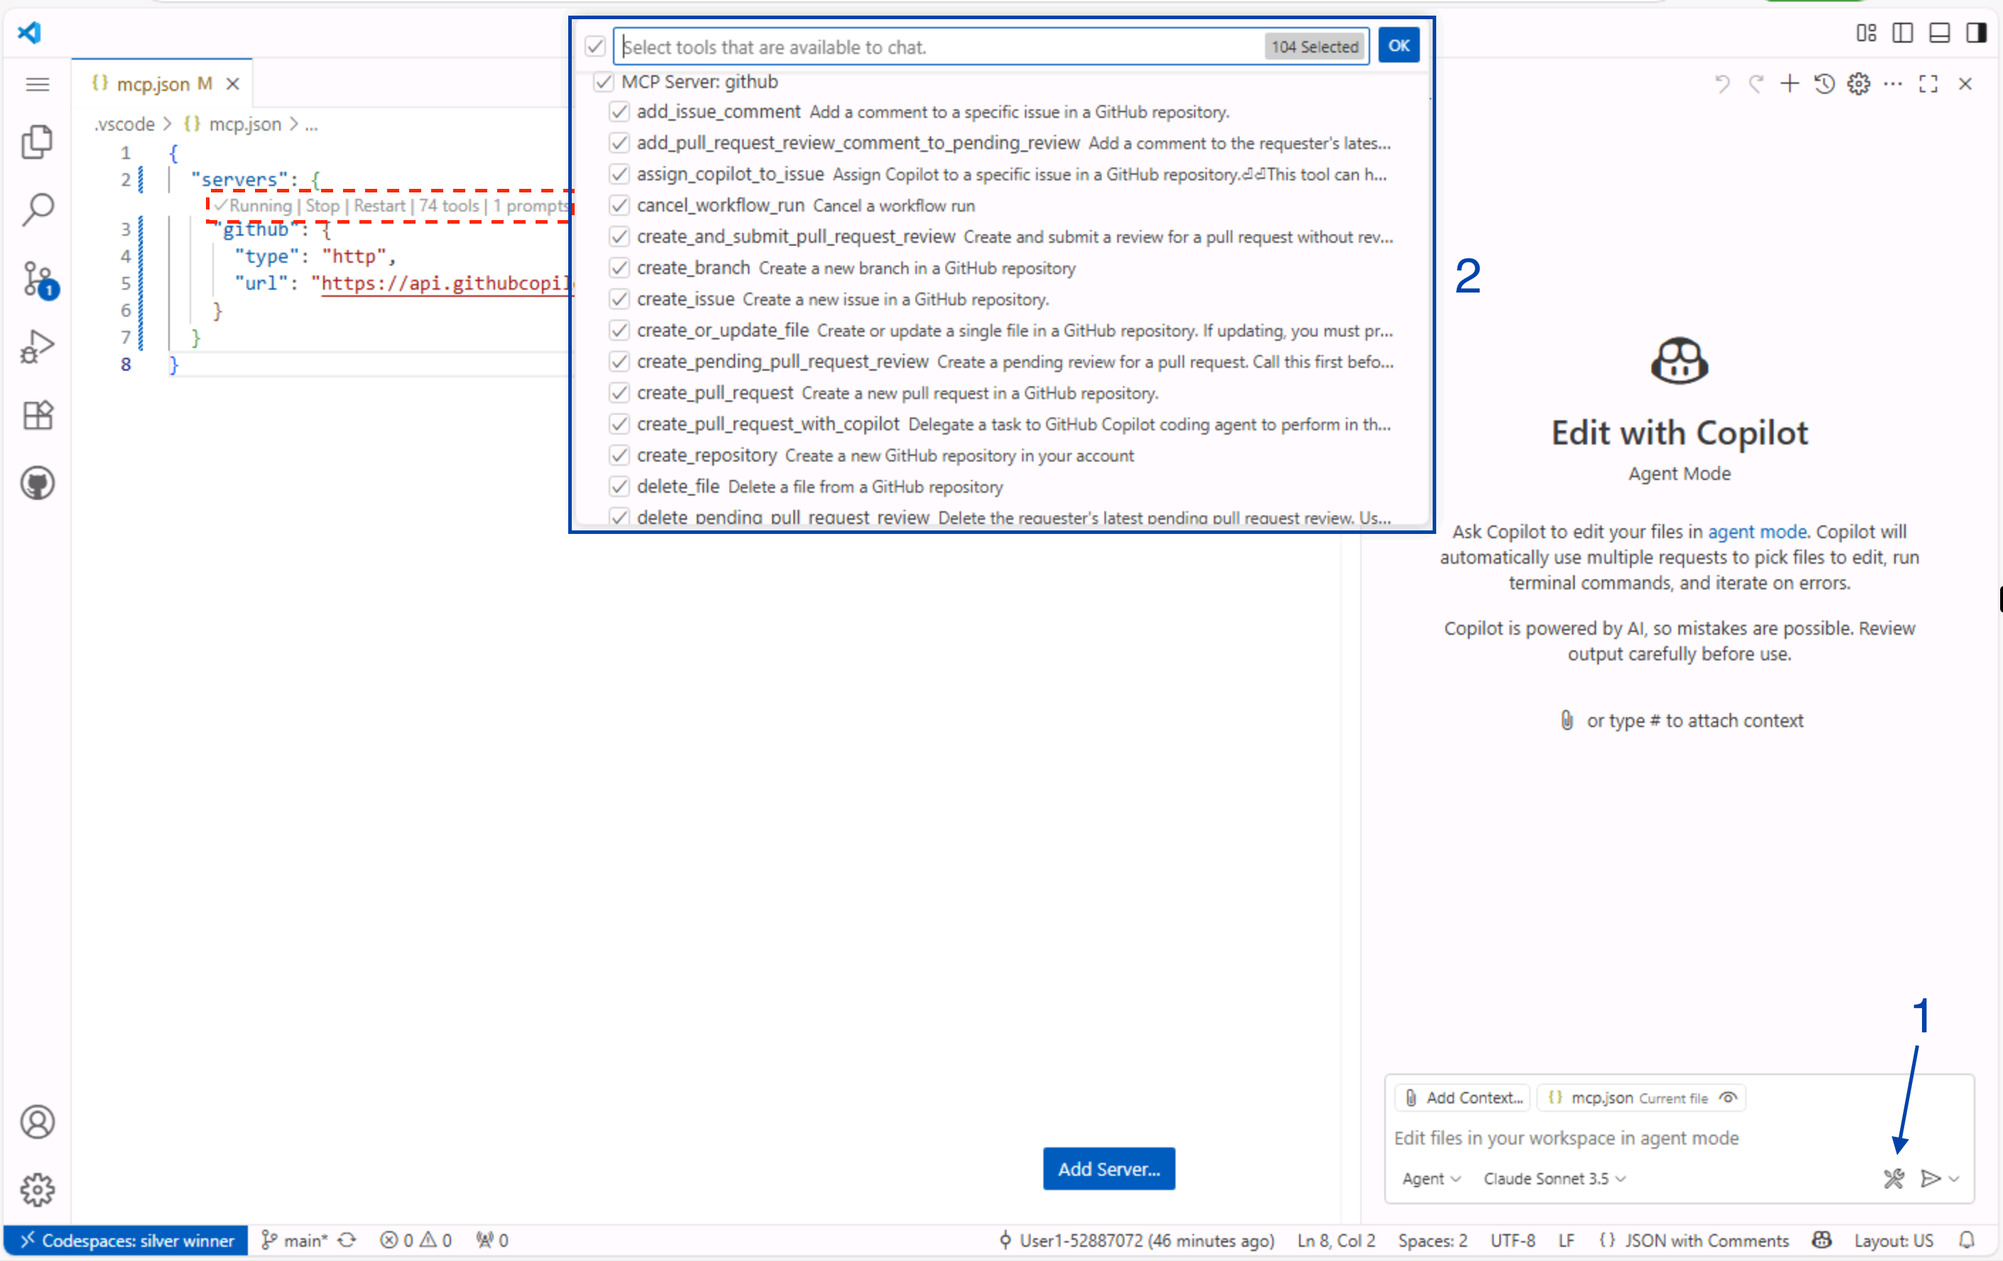
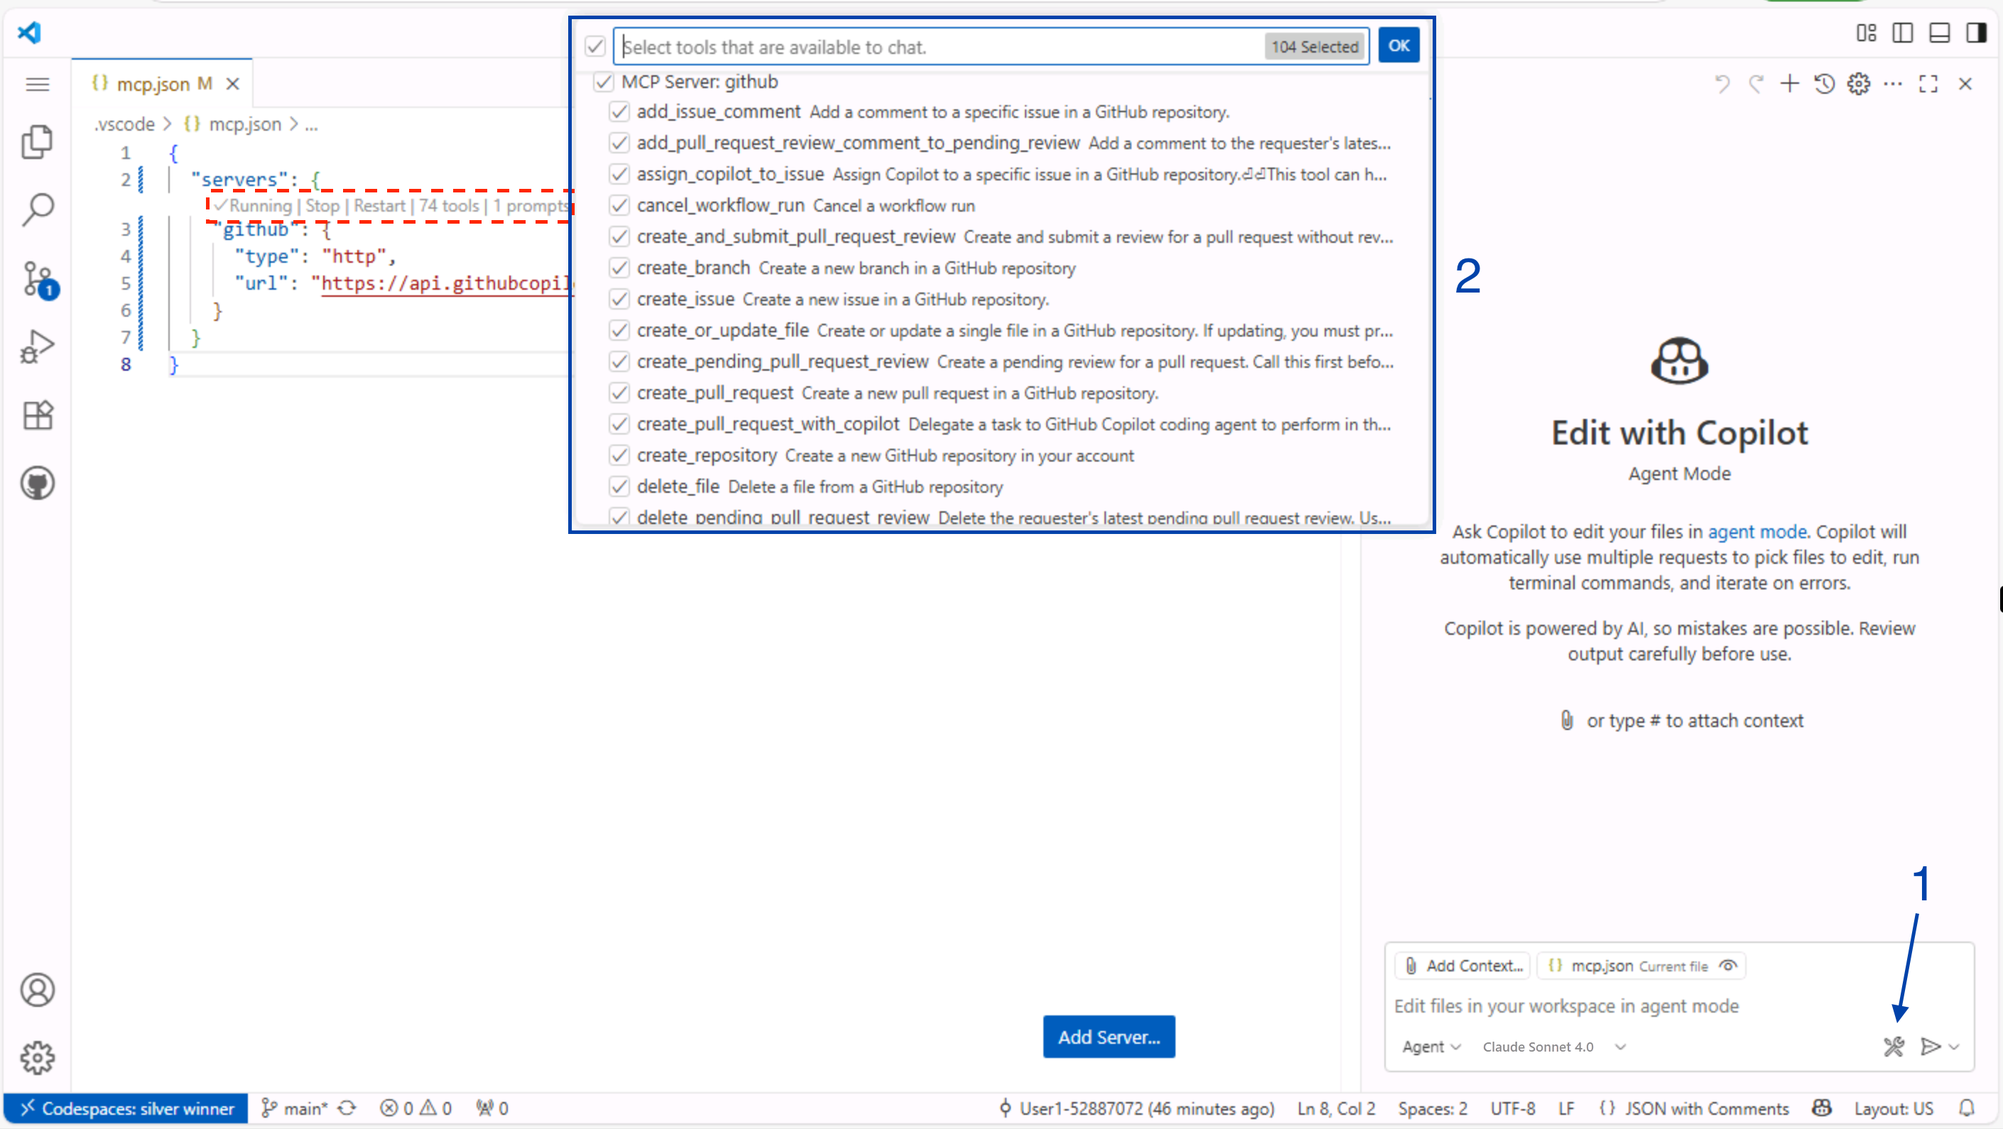
Add updates for new models

diff --git a/docs/4-copilot-agent-mode-vscode.md b/docs/4-copilot-agent-mode-vscode.md
@@ -1,7 +1,6 @@
 # Exercise 4 - Adding new functionality with Copilot Agent Mode
 
-| [← Previous lesson: Custom instructions][previous-lesson] | [Next lesson: Reviewing coding agent →][next-lesson] |
-|:--|--:|
+
 
 Even the simplest of updates to an application typically require updates to multiple files and operations to be performed like running tests. As a developer your flow typically involves tracking down all the necessary files, making the changes, running the tests, debugging, figuring out which file was missed, making another update... The list goes on and on.
 
@@ -31,7 +30,7 @@ To make running the website easier, we have provided a script that will start bo
 
 1. Return to your codespace. We'll continue working in your current branch.
 2. Open a new terminal window inside your codespace by selecting <kbd>Ctl</kbd>+<kbd>\`</kbd>.
-3. Run the following script to start the website:
+3. Run the following script to start the website:  (You may need to ask Copilot to help if permissions are denied.)
 
    ```bash
    scripts/start-app.sh
@@ -70,10 +69,10 @@ The initial implementation of the website is functional, but we want to enhance 
 
    ![Screenshot of the Copilot Chat panel showing the Agent Mode dropdown](images/copilot-agent-mode-dropdown.png)
 
-5. Select **Claude 3.5 Sonnet** from the list of available models.
+5. Select **Claude 4.0 Sonnet** from the list of available models.
 
 > [!IMPORTANT]
-> The authors of this lab are not indicating a preference towards one model or another. When building this lab, we used Claude 3.5, and as such are including that in the instructions. The hope is the code suggestions you receive will be relatively consistent to ensure a good experience. However, because LLMs are probabilistic, you may notice the suggestions received differ from what is indicated in the lab. This is perfectly normal and expected.
+> The authors of this lab are not indicating a preference towards one model or another. When building this lab, we used Claude 4.0, and as such are including that in the instructions. The hope is the code suggestions you receive will be relatively consistent to ensure a good experience. However, because LLMs are probabilistic, you may notice the suggestions received differ from what is indicated in the lab. This is perfectly normal and expected.
 
 5. Ask Copilot about the backlog of issues by sending the following prompt to Copilot, replacing **<YOUR_REPOSITORY_PATH>** with the organization/name of your repository which you noted earlier:
 
@@ -86,7 +85,7 @@ The initial implementation of the website is functional, but we want to enhance 
 > [!NOTE]
 > Because of the probabilistic nature of LLMs, Copilot may utilize a different MCP command, but should still be able to complete the task.
 
-7. Select **Continue** to run the command to list all issues.
+7. If prompted, select **Continue** to run the command to list all issues.
 8. Review the generated list of issues.
 
 Notice how Copilot has even prioritized the items for us, based on the ones that it thinks will be most useful to the user.
@@ -113,7 +112,7 @@ In addition, the tests need to run (and pass) before we merge everything into ou
 
    ![Screenshot showing an example of switching to Agent Mode](images/copilot-agent-mode-dropdown.png)
 
-4. Ensure **Claude 3.5** is still selected for the model.
+4. Ensure **Claude 4.0** is still selected for the model.
 5. Prompt Copilot to implement the functionality based on the issue we created earlier by using the following prompt, replacing **<YOUR_REPOSITORY_PATH>** with the organization/name of your repository which you noted earlier:
 
    ```plaintext
@@ -127,7 +126,7 @@ In addition, the tests need to run (and pass) before we merge everything into ou
 > [!NOTE]
 > You will notice that Copilot will perform several tasks, like exploring the project, modifying files, and running tests. It may take a few minutes depending on the complexity of the task and the codebase. During that process, you may notice **Keep** and **Undo**  buttons appear in the code editor. When Copilot is finished, you will have a **Keep** or **Undo** for all of the changes, so you do not need to select them while work is in progress.
 
-Copilot will likely take up to 5 minutes to comeplet the work above. Be patient and wait until it is finished in the Copilot window and you are presented with  a prompt to Continue.
+Copilot will likely take **up to 5 minutes to complete the work** above. Be patient and wait until it is finished in the Copilot window and you are presented with  a prompt to Continue.
 
 6. As prompted by Copilot, select **Continue** to run the tests.
 
@@ -181,7 +180,7 @@ Congratulations! In this exercise, we explored how to use GitHub Copilot Agent M
 - Copilot Agent Mode can explore your project, identify relevant files, and make coordinated changes.
 - to review changes and tests generated by Copilot Agent Mode before merging into your codebase.
 
-Now let's [return to our coding agent][next-lesson] to see how well it did with the issues we assigned to it.
+In the next-lesson you'll see how well it did with the issues we assigned to it.
 
 ### Bonus exploration exercise – Implement paging
 
@@ -201,7 +200,8 @@ As the list of games grows there will be a need for paging to be enabled. Using 
 
 ---
 
- **Click Next below**.
+ Click the following link to move onto the next exercise.
+ [Next exercise: Review GitHub Copilot coding agent's work](./5-reviewing-coding-agent.md) 
 
 [previous-lesson]: ./3-custom-instructions.md
 [next-lesson]: ./5-reviewing-coding-agent.md

diff --git a/docs/1-copilot-coding-agent.md b/docs/1-copilot-coding-agent.md
@@ -1,7 +1,5 @@
 # Exercise 1 - GitHub Copilot coding agent
 
-| [← Prerequisites][previous-lesson] | [Next lesson: MCP servers →][next-lesson] |
-|:--|--:|
 
 There are likely very few, if any, organizations who don't struggle with tech debt. This could be unresolved security issues, legacy code requiring updates, or feature requests which have languished on the backlog because we just didn't have the time to implement them. GitHub Copilot's coding agent is built to perform tasks such as updating code and adding functionality, all in an autonomous fashion. Once the agent completes its work, it generates a draft PR ready for a human developer to review. This allows offloading of tedious tasks and an acceleration of the development process, and frees developers to focus on larger picture items.
 
@@ -86,7 +84,7 @@ It looks like any other GitHub workflow file, but it has a few key points:
 
 While every developer and organization understands the importance of documentation, most projects have either outdated information or lack it altogether. This is the type of tech debt which often goes unaddressed, slowing productivity and making it more difficult to maintain the codebase or bring new developers into the team. Fortunately, Copilot shines at creating documentation, and this is a perfect issue to assign to Copilot coding agent. It'll work in the background to generate the necessary documentation. In a future exercise we'll return to review its work.
 
-1. Navigate to your repository on github.com in a new browser tab.
+1. Navigate to your repository on github.com in a **new browser tab**. (TIP:  se-copilot-workshops/_yourhandle_)
 2. Select the **Issues** tab.
 3. Select **New issue** to open the new issue dialog.
 4. If prompted, select **Blank issue** to create the new issue.
@@ -94,7 +92,7 @@ While every developer and organization understands the importance of documentati
 6. Set the **Description** to:
    
     ```plaintext
-    Our organization has a requirement that all functions have docstrings or the language equivalent. Unfortunately, recent updates haven't followed this standard. We need to update the existing code to ensure docstrings (or the equivalent) are included with every function or method.
+    Our organisation has a requirement that all functions have docstrings or the language equivalent. Unfortunately, recent updates haven't followed this standard. We need to update the existing code to ensure docstrings (or the equivalent) are included with every function or method.
     ```
 
 7. Select **Create** to create the issue. You might need to scroll down to see the Create button.
@@ -109,7 +107,7 @@ While every developer and organization understands the importance of documentati
 
 11. Select the **Pull Requests** tab.
 12. Open the newly generated issue, which will be titled something similar to **[WIP]: Code lacks documentation**.
-13. After a few minutes, you should see that Copilot has created a todo list.
+13. **After a few minutes**, you should see that Copilot has created a todo list.
 14. Review the list and the tasks it's going to complete.
 15.  Scroll down the pull request timeline, and you should see an update that Copilot has started working on the issue.
 16.  Select the **View session** button.
@@ -122,7 +120,7 @@ While every developer and organization understands the importance of documentati
 
 17. Notice that you can scroll through the live session, and how Copilot is solving the problem. That includes exploring the code and understanding the state, how Copilot pauses to think and decide on the appropriate plan and also creating code.
 
-This will likely take several minutes. One of the primary goals of Copilot coding agent is to allow it to perform tasks asynchronously, freeing us to focus on other tasks. We're going to take advantage of that very feature by both assigning another task to Copilot coding agent, then turning our attention to writing some code to add features to our application.
+**This will likely take several minutes.** One of the primary goals of Copilot coding agent is to allow it to perform tasks asynchronously, freeing us to focus on other tasks. We're going to take advantage of that very feature by both assigning another task to Copilot coding agent, then turning our attention to writing some code to add features to our application.
 
 ## Create new endpoints to modify games
 
@@ -194,7 +192,8 @@ With coding agent working diligently in the background, we can now turn our atte
 
 ---
 
- **Click Next below**.
+ Click the following link to move onto the next exercise.
+ [Next exercise: Setting up the backlog with Copilot agent mode and GitHub's MCP Server](./2-mcp.md)
 
 [coding-agent-overview]: https://docs.github.com/en/copilot/using-github-copilot/coding-agent/about-assigning-tasks-to-copilot#overview-of-copilot-coding-agent
 [coding-agent-mcp]: https://docs.github.com/en/copilot/how-tos/agents/copilot-coding-agent/extending-copilot-coding-agent-with-mcp

diff --git a/docs/0-prereqs.md b/docs/0-prereqs.md
@@ -6,20 +6,20 @@ Before we get started on the lab, there's a few tasks we need to complete to get
 
 To create a copy of the repository for the code you'll create an instance from the [template](https://docs.github.com/en/repositories/creating-and-managing-repositories/creating-a-template-repository). The new instance will contain all of the necessary files for the lab, and you'll use it as you work through the exercises. 
 
-1. In a new browser window, navigate to the GitHub repository for this lab: `https://github.com/se-copilot-workshops/agents-in-sdlc`.
+1. In a new browser window, navigate to the GitHub repository for this lab: `https://github.com/se-copilot-workshops/agents-in-sdlc`. You should sign into GitHub using your own GitHub handle.
 2. Create your own copy of the repository by selecting the **Use this template** button on the lab repository page. Then select **Create a new repository**.
 
     ![Use this template button](images/use-template.png)
 
 > [!IMPORTANT]
-> Select **Microsoft-Build-2025** as the owner and name your repository **bne-** followed by your own GitHub handle. For example **bne-chrisredd**
+> Select **se-copilot-workshops** as the owner and use your GitHub handle for the repository name. 
 
-3. Select **Microsoft-Build-2025** as the owner and name your repository **bne-** followed by your own GitHub handle. For example **bne-chrisredd** This ensures you will get access to the Copilot coding agent and can assign issues to Copilot.
+3. Select **se-copilot-workshops** as the owner and name your GitHub handle for the repository name. This ensures you will get access to the Copilot coding agent and can assign issues to Copilot.
 
     ![Input the repository template settings](images/repository-template-settings.png)
 
 4. Click the **Create repository** button
-5. Make a note of the repository path you created (**Microsoft-Build-2025/bne-xxxx**), as you will be referring to this later in the lab.
+5. Make a note of the repository path you created (**se-copilot-workshops/**___GHhandle___), as you will be referring to this later in the lab.
 
 ## Creating a codespace
 
@@ -31,6 +31,7 @@ Next up, we will be using a codespace to complete the lab exercises. [GitHub Cod
     ![Select the Code button](images/code-button.png)
 
 3. Select the **Codespaces** tab and select the **+** button to create a new Codespace.
+ (**TIP:** Keep reading ahead. Don't wait for the codespace to complete)
 
     ![Create a new codespace](images/create-codespace.png)
 
@@ -42,4 +43,5 @@ Congratulations, you have created a copy of the lab repository! You also began t
 
 ## Next step
 
-Since we've got a few minutes, let's get Copilot working on some tasks asynchronously for us! We can do this by creating issues and assigning them to Copilot coding agent. **Click Next below**.
+Since we've got a few minutes, let's get Copilot working on some tasks asynchronously for us! We can do this by creating issues and assigning them to Copilot coding agent. Click the following link to move onto the next exercise.
+[Next exercise: Copilot Coding Agent](./1-copilot-coding-agent.md)

diff --git a/docs/2-mcp.md b/docs/2-mcp.md
@@ -1,7 +1,6 @@
 # Exercise 2 - Setting up the backlog with Copilot agent mode and GitHub's MCP Server
 
-| [← Previous lesson: GitHub Copilot coding agent][previous-lesson] | [Next lesson: Custom instructions →][next-lesson] |
-|:--|--:|
+
 
 There's more to writing code than just writing code. Issues need to be filed, external services need to be called, and information needs to be gathered. Typically this involves interacting with external tools, which can break a developer's flow. Through the power of Model Context Protocol (MCP), you can access all of this functionality right from Copilot!
 
@@ -83,7 +82,7 @@ Once you have the extension installed, you may need to authenticate with your Gi
     ![Example of selecting the Claude 3.5 Sonnet model](images/copilot-agent-mode-model.png)
 
 > [!IMPORTANT]
-> The authors of this lab are not indicating a preference towards one model or another. When building this lab, we used Claude 3.5 Sonnet, and as such are including that in the instructions. The hope is the code suggestions you receive will be relatively consistent to ensure a good experience. However, because LLMs are probabilistic, you may notice the suggestions received differ from what is indicated in the lab. This is perfectly normal and expected.
+> The authors of this lab are not indicating a preference towards one model or another. When building this lab, we used Claude 4.0 Sonnet, and as such are including that in the instructions. The hope is the code suggestions you receive will be relatively consistent to ensure a good experience. However, because LLMs are probabilistic, you may notice the suggestions received differ from what is indicated in the lab. This is perfectly normal and expected.
 
 8. The chat pane should update to indicate that you are now in agent mode. You should see a tools icon, showing that we can configure tools for GitHub Copilot to use.
 
@@ -149,7 +148,7 @@ That's it! You can now use Copilot Chat in agent mode to create issues, manage p
 
 Now that you have set up the GitHub MCP server, you can use Copilot Agent mode to create a backlog of tasks for use in the rest of the lab.
 
-1. Return to the Copilot Chat pane. Select **Agent** from the dropdown list. Set the model to **Claude 3.5 Sonnet**.
+1. Return to the Copilot Chat pane. Select **Agent** from the dropdown list. Set the model to **Claude 4.0 Sonnet**.
 
     ![Example of the Copilot Chat pane with Agent Mode selected](images/copilot-agent-mode-dropdown.png)
 
@@ -230,7 +229,8 @@ Notice that the setup process is similar to the GitHub MCP server, but you do no
 
 ---
 
- **Click Next below**.
+ Click the following link to move onto the next exercise.
+ [Next exercise: Providing context to Copilot with instruction files](./3-custom-instructions.md)
 
 [previous-lesson]: ./1-copilot-coding-agent.md
 [next-lesson]: ./3-custom-instructions.md

diff --git a/docs/3-custom-instructions.md b/docs/3-custom-instructions.md
@@ -1,7 +1,6 @@
 # Exercise 3 - Providing context to Copilot with instruction files
 
-| [← Previous lesson: Model Context Protocol (MCP)][previous-lesson] | [Next lesson: Copilot agent mode →][next-lesson] |
-|:--|--:|
+
 
 Context is key across many aspects of life, and when working with generative AI. If you're performing a task which needs to be completed a particular way, or if a piece of background information is important, we want to ensure Copilot has access to that information. We can use [instruction files][instruction-files] to provide guidance so that Copilot not only understands what we want it to do but also how we want it to be done.
 
@@ -185,9 +184,16 @@ We want to create a new endpoint to list all publishers, and to follow the same 
    ./scripts/run-server-tests.sh
    ```
 
-19. Once the code is correct, and all tests pass, open the **Source Control** panel on the left of the Codespace and review the changes made by Copilot.
-20. Stage the changes by selecting the **+** icon in the **Source Control** panel.
-21. Generate a commit message using the **Sparkle** button.
+19. You may see an error message stating that **Permission denied**. This is something that our friendly Copilot can assist with. Start a new Chat in the Copilot Chat window and switch to **Agent** mode. Enter the following prompt and press Enter.
+   
+   ```plaintext
+   Execute the run-server-tests.sh command
+   ```
+Copilot will provide one or two suggestions with the correct one including the chmod commands to fix the missing permissions!
+
+20. Once the code is correct, and all tests pass, open the **Source Control** panel on the left of the Codespace and review the changes made by Copilot.
+21. Stage the changes by selecting the **+** icon in the **Source Control** panel.
+22. Generate a commit message using the **Sparkle** button.
 
     ![Screenshot of the Source Control panel showing the changes made](images/source-control-changes.png)
 
@@ -210,8 +216,9 @@ Next we'll use [agent mode to add functionality to the site][next-lesson].
 - [Personal custom instructions for GitHub Copilot][personal-instructions]
 
 ---
-
- **Click Next below**.
+ Click the following link to move onto the next exercise.
+ [Next exercise: Adding new functionality with Copilot Agent Mode](./4-copilot-agent-mode-vscode.md)
+ 
 
 [previous-lesson]: ./2-mcp.md
 [next-lesson]: ./4-copilot-agent-mode-vscode.md

diff --git a/docs/5-reviewing-coding-agent.md b/docs/5-reviewing-coding-agent.md
@@ -1,7 +1,6 @@
 # Exercise 5: Review GitHub Copilot coding agent's work
 
-| [← Adding new functionality with Copilot Agent Mode][previous-lesson] |
-|:----:|
+
 
 When we first started this lab we assigned a couple of issues to GitHub Copilot coding agent. We asked it to add documentation to our code, and generate few endpoints for another team to iterate on. Let's explore the code changes it suggested and, if necessary, provide feedback to Copilot to improve its work.
 
